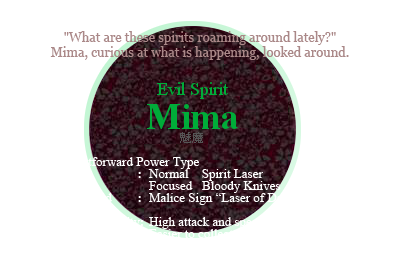
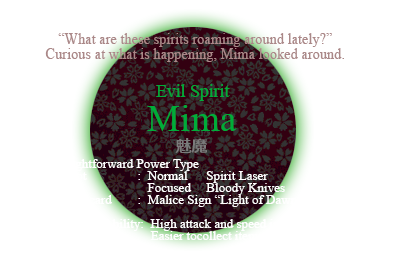
Some rather pleasant aesthetic changes

Changed region(s): [[0.09, 0.0625, 0.87, 0.9688]]

diff --git a/mima/files.js b/mima/files.js
@@ -304,8 +304,9 @@
 	"th13/st06b.msg.jdiff": 228602977,
 	"th13/st07b.msg": 1341954436,
 	"th13/st07b.msg.jdiff": 2720813786,
-	"th13/title/weapon_01.png": 2079681708,
-	"th13/title/weapon_01ex.png": 507181046,
+	"th13/title/result00.png": 3320676456,
+	"th13/title/weapon_01.png": 595361334,
+	"th13/title/weapon_01ex.png": 186778926,
 	"th14/face/pl01/face_pl01an.png": 1718055652,
 	"th14/face/pl01/face_pl01bs.png": 2259105534,
 	"th14/face/pl01/face_pl01bs2.png": 2356017160,
@@ -355,7 +356,7 @@
 	"th14/st07d.msg.jdiff": 3368002378,
 	"th14/title/player_01.png": 3455925924,
 	"th14/title/player_01ex.png": 3593502150,
-	"th14/title/result00.png": 3403393311,
+	"th14/title/result00.png": 1533421090,
 	"th14/title/weapon_01.png": 1003615941,
 	"th14/title/weapon_01b.png": 1573870023,
 	"themes.js": 2823828057
